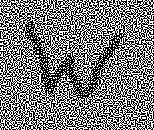
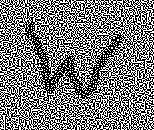
You can now use two images as sheets

diff --git a/viscrypt.py b/viscrypt.py
@@ -27,35 +27,61 @@ class Sheetpixel():
 
         if total_black != None:
 
+            partner_nr_black = partner.subpixels.count('x');
+
             if total_black == 4 and nr_black == 2:
 
-                for other_subpixel in partner.subpixels:
-                    if other_subpixel == 'x':
-                        self.subpixels += '.';
-                    else:
-                        self.subpixels += 'x';
-
+                if partner_nr_black == 2:
+                    for other_subpixel in partner.subpixels:
+                        if other_subpixel == 'x':
+                            self.subpixels += '.';
+                        else:
+                            self.subpixels += 'x';
+                elif partner_nr_black == 3:
+                    self.subpixels = partner.subpixels;
+                    self.subpixels = self.subpixels.replace('.','@',1);
+                    self.subpixels = self.subpixels.replace('x','.',2);
+                    self.subpixels = self.subpixels.replace('@','x',1);
+ 
             elif total_black == 2 and nr_black == 2:
 
-                self.subpixels = partner.subpixels;
+                if partner_nr_black == 2:
+                    self.subpixels = partner.subpixels;
+                elif partner_nr_black == 3:
+                    self.subpixels = partner.subpixels;
+                    self.subpixels = self.subpixels.replace('@','.',1);                                                             
 
             elif total_black == 3 and nr_black == 3:
 
-                self.subpixels = partner.subpixels;
+                if partner_nr_black == 2:
+                    self.subpixels = partner.subpixels;
+                    self.subpixels = self.subpixels.replace('.','x',1);                                                             
+                elif partner_nr_black == 3:
+                    self.subpixels = partner.subpixels;
 
             elif total_black == 3 and nr_black == 2:
 
-                self.subpixels = partner.subpixels;
-                self.subpixels = self.subpixels.replace('x','@',1);
-                self.subpixels = self.subpixels.replace('.','x',1);
-                self.subpixels = self.subpixels.replace('@','.',1);
+                if partner_nr_black == 2:
+                    self.subpixels = partner.subpixels;
+                    self.subpixels = self.subpixels.replace('x','@',1);
+                    self.subpixels = self.subpixels.replace('.','x',1);
+                    self.subpixels = self.subpixels.replace('@','.',1);
+                elif partner_nr_black == 3:
+                    self.subpixels = partner.subpixels;
+                    self.subpixels = self.subpixels.replace('x','.',1);
 
             elif total_black == 4 and nr_black == 3:
 
-                self.subpixels = partner.subpixels;
-                self.subpixels = self.subpixels.replace('.','@',1);
-                self.subpixels = self.subpixels.replace('x','.',1);
-                self.subpixels = self.subpixels.replace('@','x',1);                
+                if partner_nr_black == 2:
+                    self.subpixels = partner.subpixels;
+                    self.subpixels = self.subpixels.replace('x','@',1);
+                    self.subpixels = self.subpixels.replace('.','x',2);
+                    self.subpixels = self.subpixels.replace('@','.',1);
+                elif partner_nr_black == 3:
+                    self.subpixels = partner.subpixels;
+                    self.subpixels = self.subpixels.replace('.','@',1);
+                    self.subpixels = self.subpixels.replace('x','.',1);
+                    self.subpixels = self.subpixels.replace('@','x',1);                
             
         else:
             self.subpixels = nr_black*'x'+(self.pixelsize-nr_black)*'.';
@@ -120,7 +146,7 @@ class Sheet():
         values_to_png(path,values);
 
 
-def generate_sheets(image,cover = None):
+def generate_sheets(image,cover1 = None,cover2 = None):
 
     sheet1 = Sheet([]);
     sheet2 = Sheet([]);
@@ -134,26 +160,34 @@ def generate_sheets(image,cover = None):
 
             if imagepixel == '.':
 
-                if cover != None:
-                    if cover.pixels[nl][np] == 'x':
+                if cover1 != None:
+                    if cover1.pixels[nl][np] == 'x':
                         pixel1 = Sheetpixel(nr_black=3);
-                        pixel2 = Sheetpixel(nr_black=3,total_black=3,partner=pixel1);
-                    elif cover.pixels[nl][np] == '.':
+                    elif cover1.pixels[nl][np] == '.':
                         pixel1 = Sheetpixel(nr_black=2);
+
+                    if cover2.pixels[nl][np] == 'x':
+                        pixel2 = Sheetpixel(nr_black=3,total_black=3,partner=pixel1);
+                    elif cover2.pixels[nl][np] == '.':
                         pixel2 = Sheetpixel(nr_black=2,total_black=3,partner=pixel1);                   
+
                 else:
                     pixel1 = Sheetpixel(nr_black=2);
                     pixel2 = Sheetpixel(nr_black=2,total_black=2,partner=pixel1);
                                 
             elif imagepixel == 'x':
 
-                if cover != None:
-                    if cover.pixels[nl][np] == 'x':
+                if cover1 != None:
+                    if cover1.pixels[nl][np] == 'x':
                         pixel1 = Sheetpixel(nr_black=3);
-                        pixel2 = Sheetpixel(nr_black=3,total_black=4,partner=pixel1);
-                    elif cover.pixels[nl][np] == '.':
+                    elif cover1.pixels[nl][np] == '.':
                         pixel1 = Sheetpixel(nr_black=2);
-                        pixel2 = Sheetpixel(nr_black=2,total_black=4,partner=pixel1);                    
+
+                    if cover2.pixels[nl][np] == 'x':
+                        pixel2 = Sheetpixel(nr_black=3,total_black=4,partner=pixel1);
+                    elif cover2.pixels[nl][np] == '.':
+                        pixel2 = Sheetpixel(nr_black=2,total_black=4,partner=pixel1);                   
+                        
                 else:
                     pixel1 = Sheetpixel(nr_black=2);
                     pixel2 = Sheetpixel(nr_black=2,total_black=4,partner=pixel1);
@@ -208,7 +242,12 @@ def values_to_png(path,values):
 if __name__ == '__main__':
 
     target = Image('target');
-    cover = Image('cover');
-    sh1, sh2 = generate_sheets(target,cover=cover);
+    cover1 = Image('cover1');
+    cover2 = Image('cover2');
+    geo = Image('geocache');
+
+    sh1, sh2 = generate_sheets(target,cover1=cover1,cover2=cover2);
     sh1.save('sheet1');
     sh2.save('sheet2');
+
+# Er moet nog iets gedaan worden met plekken waar cover1 en cover2 niet hetzelfde zijn
